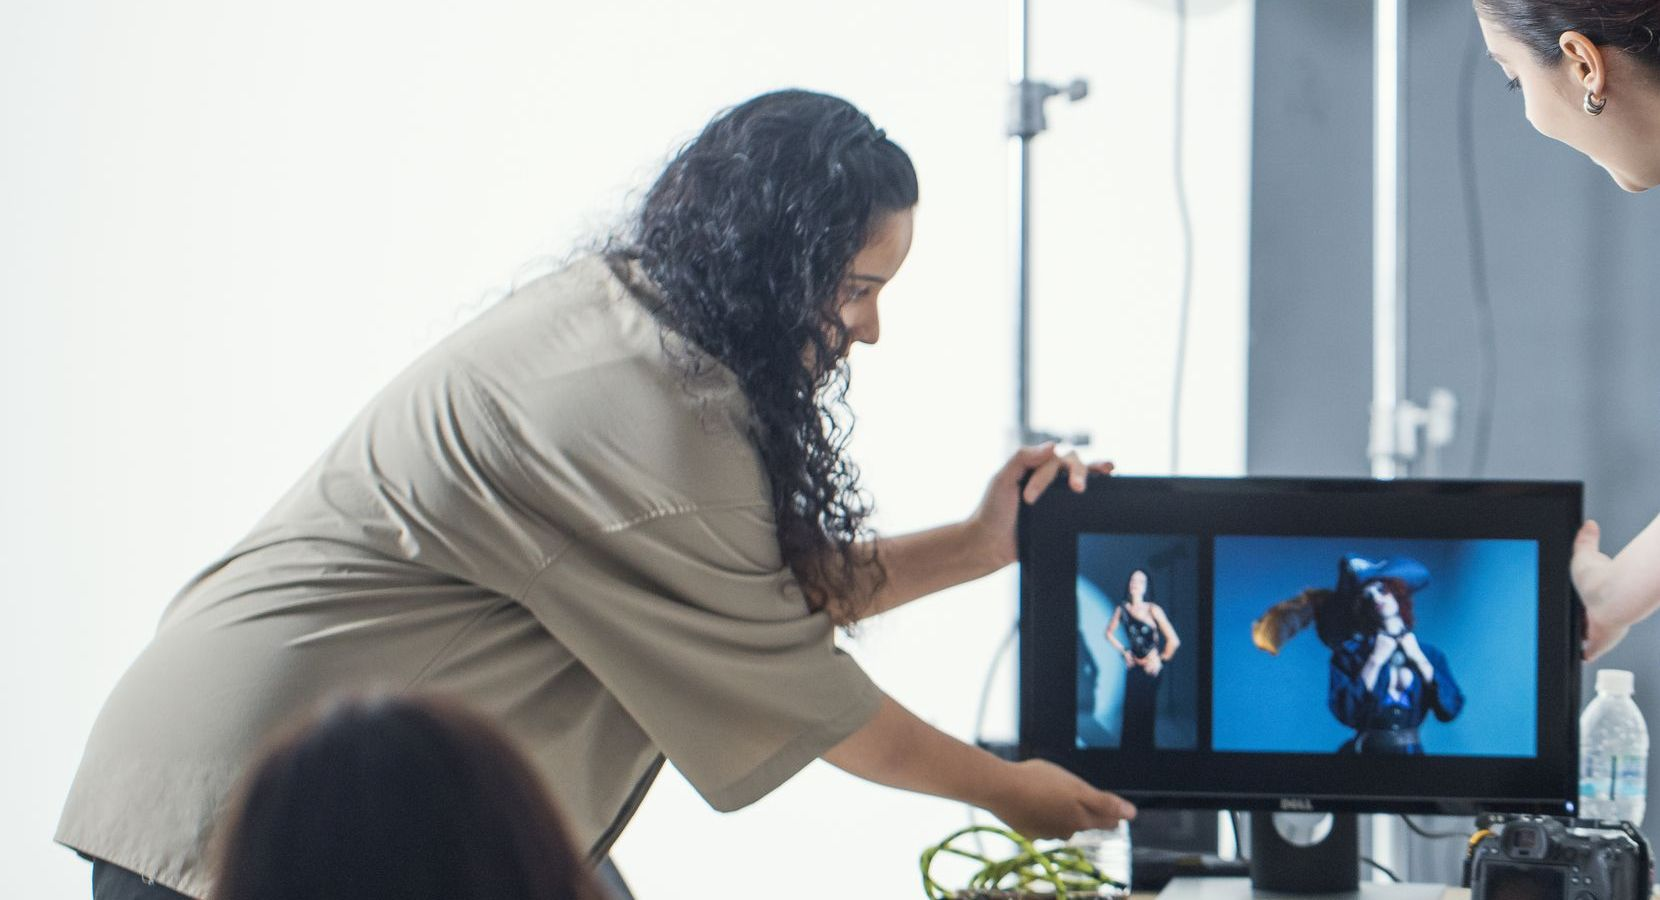
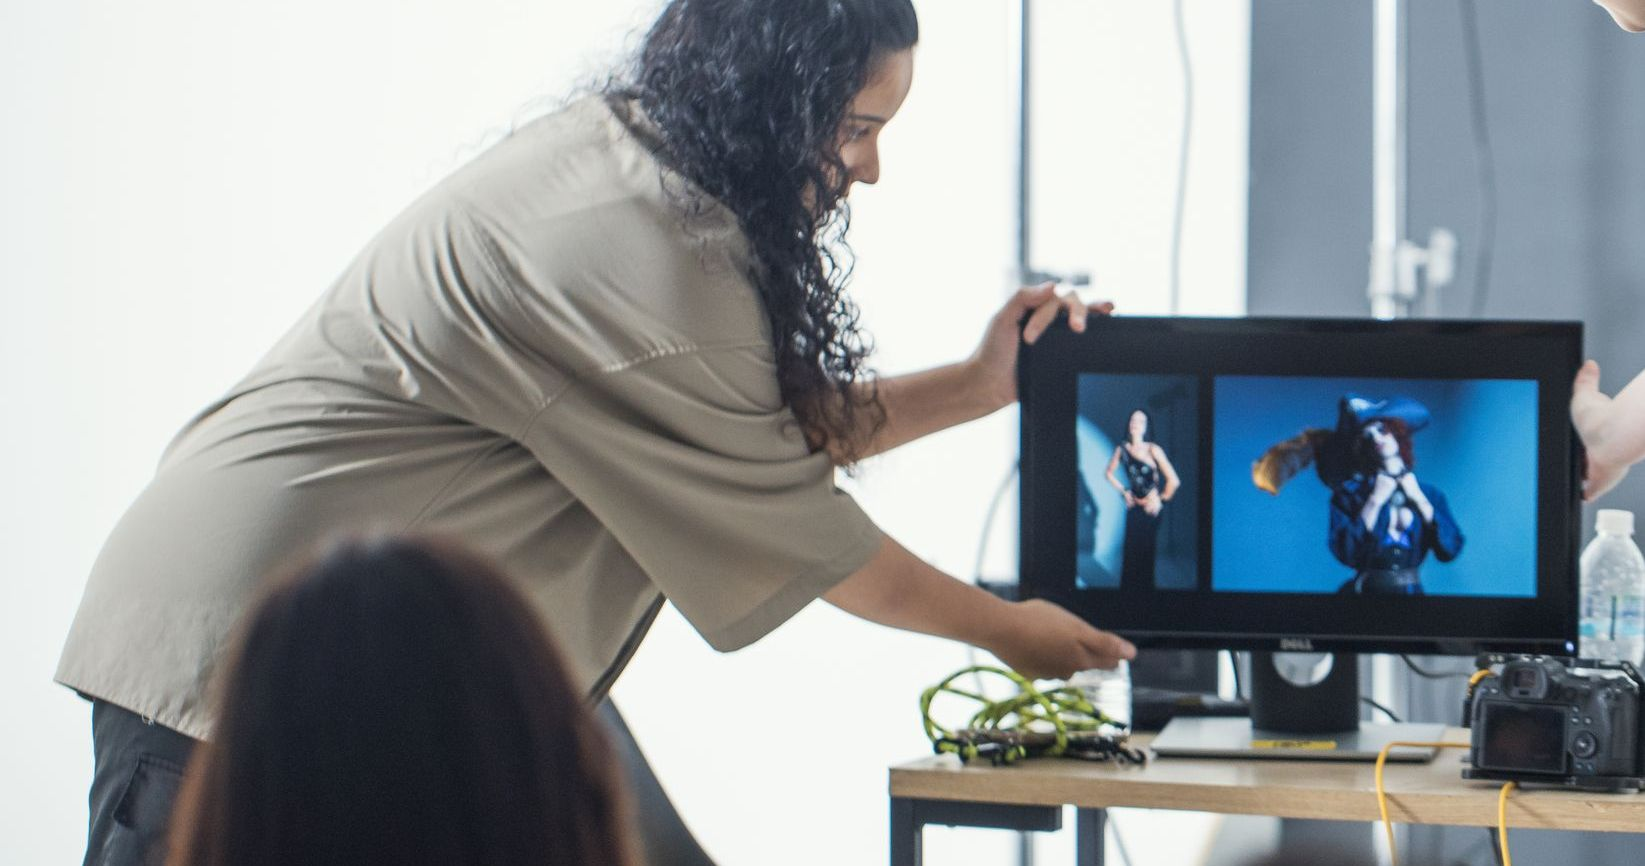
Re-crop Signal Room band photo so the monitor reads above the gradient

diff --git a/partners.html b/partners.html
@@ -865,7 +865,7 @@
         </div>
         <div class="pv-card pv-reveal">
           <h4>The Signal Room</h4>
-          <div class="pv-band"><img class="pv-band-img" src="/media/partner-signal.jpg?v=20261127a" alt="Photographers reviewing shots together on a monitor"></div>
+          <div class="pv-band"><img class="pv-band-img" src="/media/partner-signal.jpg?v=20261127b" alt="Photographers reviewing shots together on a monitor"></div>
           <p>The town square. Your people post, comment, and flash each other's work between rounds — the community that keeps them coming back after the challenge is over.</p>
         </div>
         <div class="pv-card pv-reveal">
